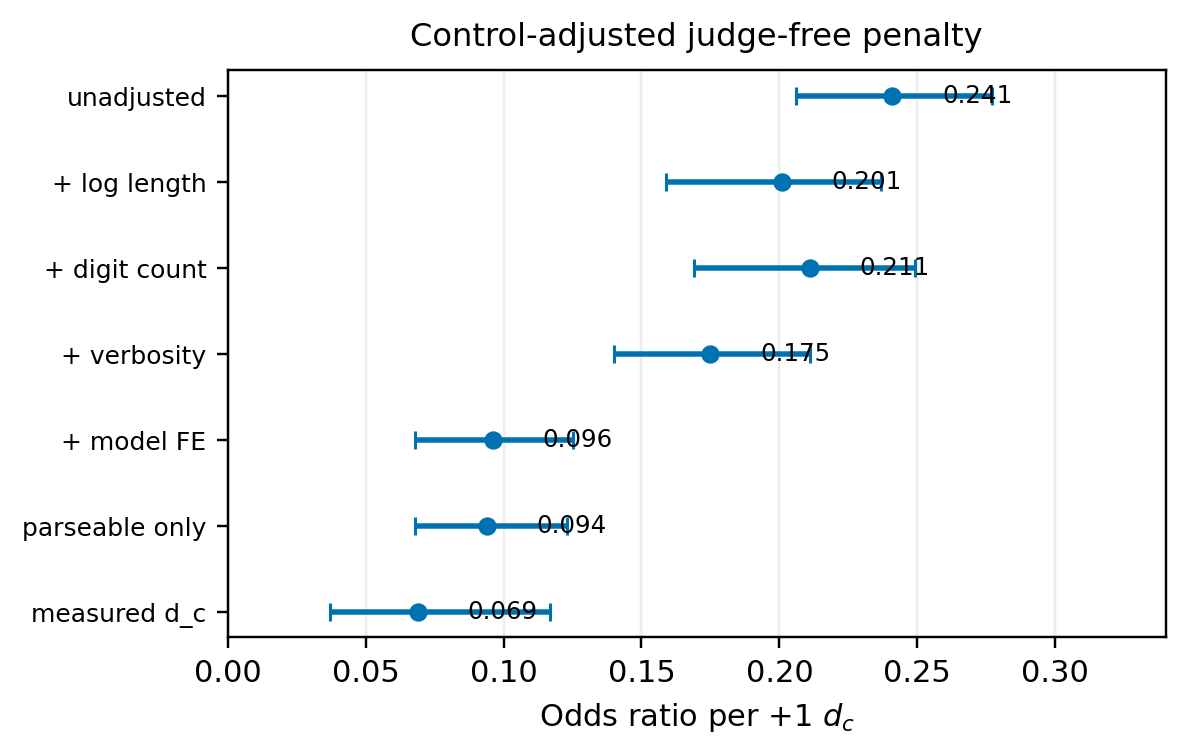
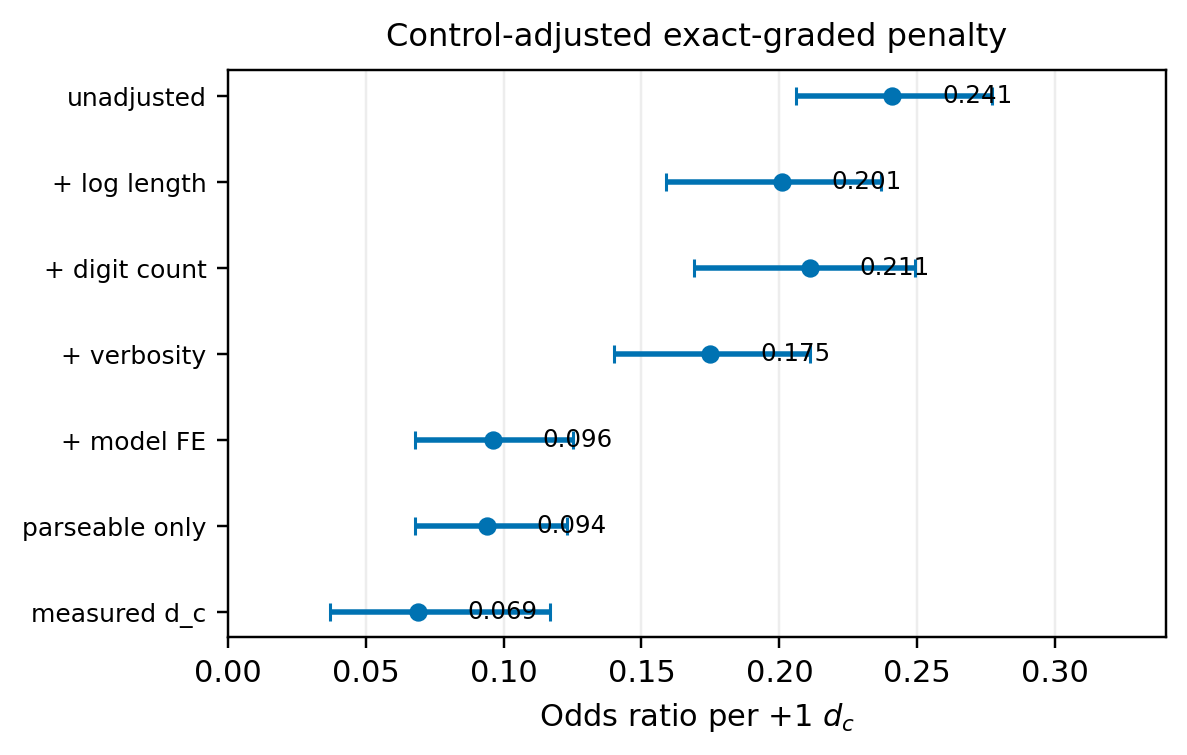
Align exact-graded figure terminology

Changed region(s): [[0.3117, 0.0305, 0.8416, 0.0914]]

diff --git a/code/scripts/80_r07_judgefree_figures.py b/code/scripts/80_r07_judgefree_figures.py
@@ -1,4 +1,4 @@
-"""Generate the R07 judge-free controlled-probe figures.
+"""Generate the R07 exact-graded controlled-probe figures.
 
 The script uses only released derived data:
   data/r07_judgefree/synthetic_graded_long.csv
@@ -106,7 +106,7 @@ def fig6b(out: Path) -> None:
     ax.set_yticklabels(labels, fontsize=8.2)
     ax.set_xlim(0.0, 0.34)
     ax.set_xlabel(r"Odds ratio per +1 $d_c$")
-    ax.set_title("Control-adjusted judge-free penalty", fontsize=10.5, pad=8)
+    ax.set_title("Control-adjusted exact-graded penalty", fontsize=10.5, pad=8)
     ax.grid(axis="x", alpha=0.22)
     save_all(fig, out)
 

diff --git a/code/scripts/43_fig_graphical_abstract.py b/code/scripts/43_fig_graphical_abstract.py
@@ -74,7 +74,7 @@ def main():
     ax.text(
         50,
         95,
-        "Conservation-constraint load $d_c$ predicts physics-reasoning failures",
+        "Conservation-constraint load $d_c$ predicts failures in physics reasoning",
         ha="center",
         va="center",
         fontsize=14.5,

diff --git a/REPRODUCIBLE_RUNBOOK.md b/REPRODUCIBLE_RUNBOOK.md
@@ -43,8 +43,9 @@ generated from `evaluation/R06_leaderboard_20260703.csv`, an aggregate
 intervals. Raw model answers and benchmark gold answers are not redistributed.
 
 The `data/r07_judgefree/` directory contains the generated synthetic
-controlled-probe items and exact-graded derived outputs for the judge-free
-validation arm:
+controlled-probe items and exact-graded derived outputs for the deterministic
+validation arm. The directory name is retained as a legacy path for
+reproducibility:
 
 - `R07_verdict.json`
 - `synthetic_graded_long.csv`
@@ -76,7 +77,7 @@ python code/scripts/34_logodds_linearity_test.py --help
 
 Scripts that require raw third-party benchmark files or model-response logs are included for transparency but will need local source data reconstructed from the datasets listed in `DATASETS_AND_LINKS.csv`.
 
-The judge-free validation figures can be regenerated from the released
+The exact-graded validation figures can be regenerated from the released
 generated/derived files without third-party benchmark data:
 
 ```bash

diff --git a/README.md b/README.md
@@ -1,7 +1,7 @@
 # Conservation-constraint load and language-model physics reasoning
 
 This repository is the public reproducibility package for the manuscript
-*Conservation-constraint load predicts physics-reasoning failures in language models*.
+*Conservation-constraint load predicts language-model failures in physics reasoning*.
 
 The project evaluates whether the number of independent scalar conservation constraints required by a physics problem, denoted `d_c`, predicts large language model failure after controlling for benchmark, topic, answer type, item length, model family and inference budget.
 
@@ -11,7 +11,8 @@ The project evaluates whether the number of independent scalar conservation cons
 - `evaluation/`: derived aggregate tables, model/fit summaries and audit reports used by the manuscript figures.
 - `figures/`: generated display figures and cover-art candidate.
 - `data/r07_judgefree/`: generated synthetic controlled-probe items and
-  exact-graded derived outputs for the judge-free validation arm. These are
+  exact-graded derived outputs for the deterministic validation arm. The
+  legacy directory name is retained for reproducibility; these are
   project-generated data, not third-party benchmark text.
 - `figure_inputs/`: minimal derived CSV inputs for the formulation-mechanism
   figure. The capability-gradient figure uses the aggregate 14-model

diff --git a/evaluation/R06_leaderboard_20260703.md b/evaluation/R06_leaderboard_20260703.md
@@ -19,6 +19,6 @@ Date 2026-07-03. Fourteen models on the 258-item pilot, LLM-consensus d_c, fixed
 | deepseek-v4-pro | panelx-new | 258 | 0.473 | 0.712 | [0.525, 0.921] | 100% |
 | Anthropic-agent arm | frontier | 257 | 0.595 | 0.945 | [0.733, 1.231] | 66% |
 
-**Capability gradient:** Spearman(accuracy, OR) = 0.697 across all 14 models (= 0.893 among non-floor models, accuracy >= 0.15, where OR is stably estimated); OR range 0.38-0.95. The per-constraint penalty shrinks toward frontier capability, so the instrument tracks formulation competence.
+**Capability gradient:** Spearman(accuracy, OR) = 0.697 across all 14 models (= 0.893 among non-floor models, accuracy >= 0.15, where OR is stably estimated); OR range 0.38-0.95. The per-constraint penalty shrinks toward frontier capability, so the instrument tracks equation formulation in multi-constraint physics problems.
 
 Floor caveat: models below about 0.15 accuracy have unstable OR estimates because there are few correct items. The gradient is therefore reported both across all models and among non-floor models.